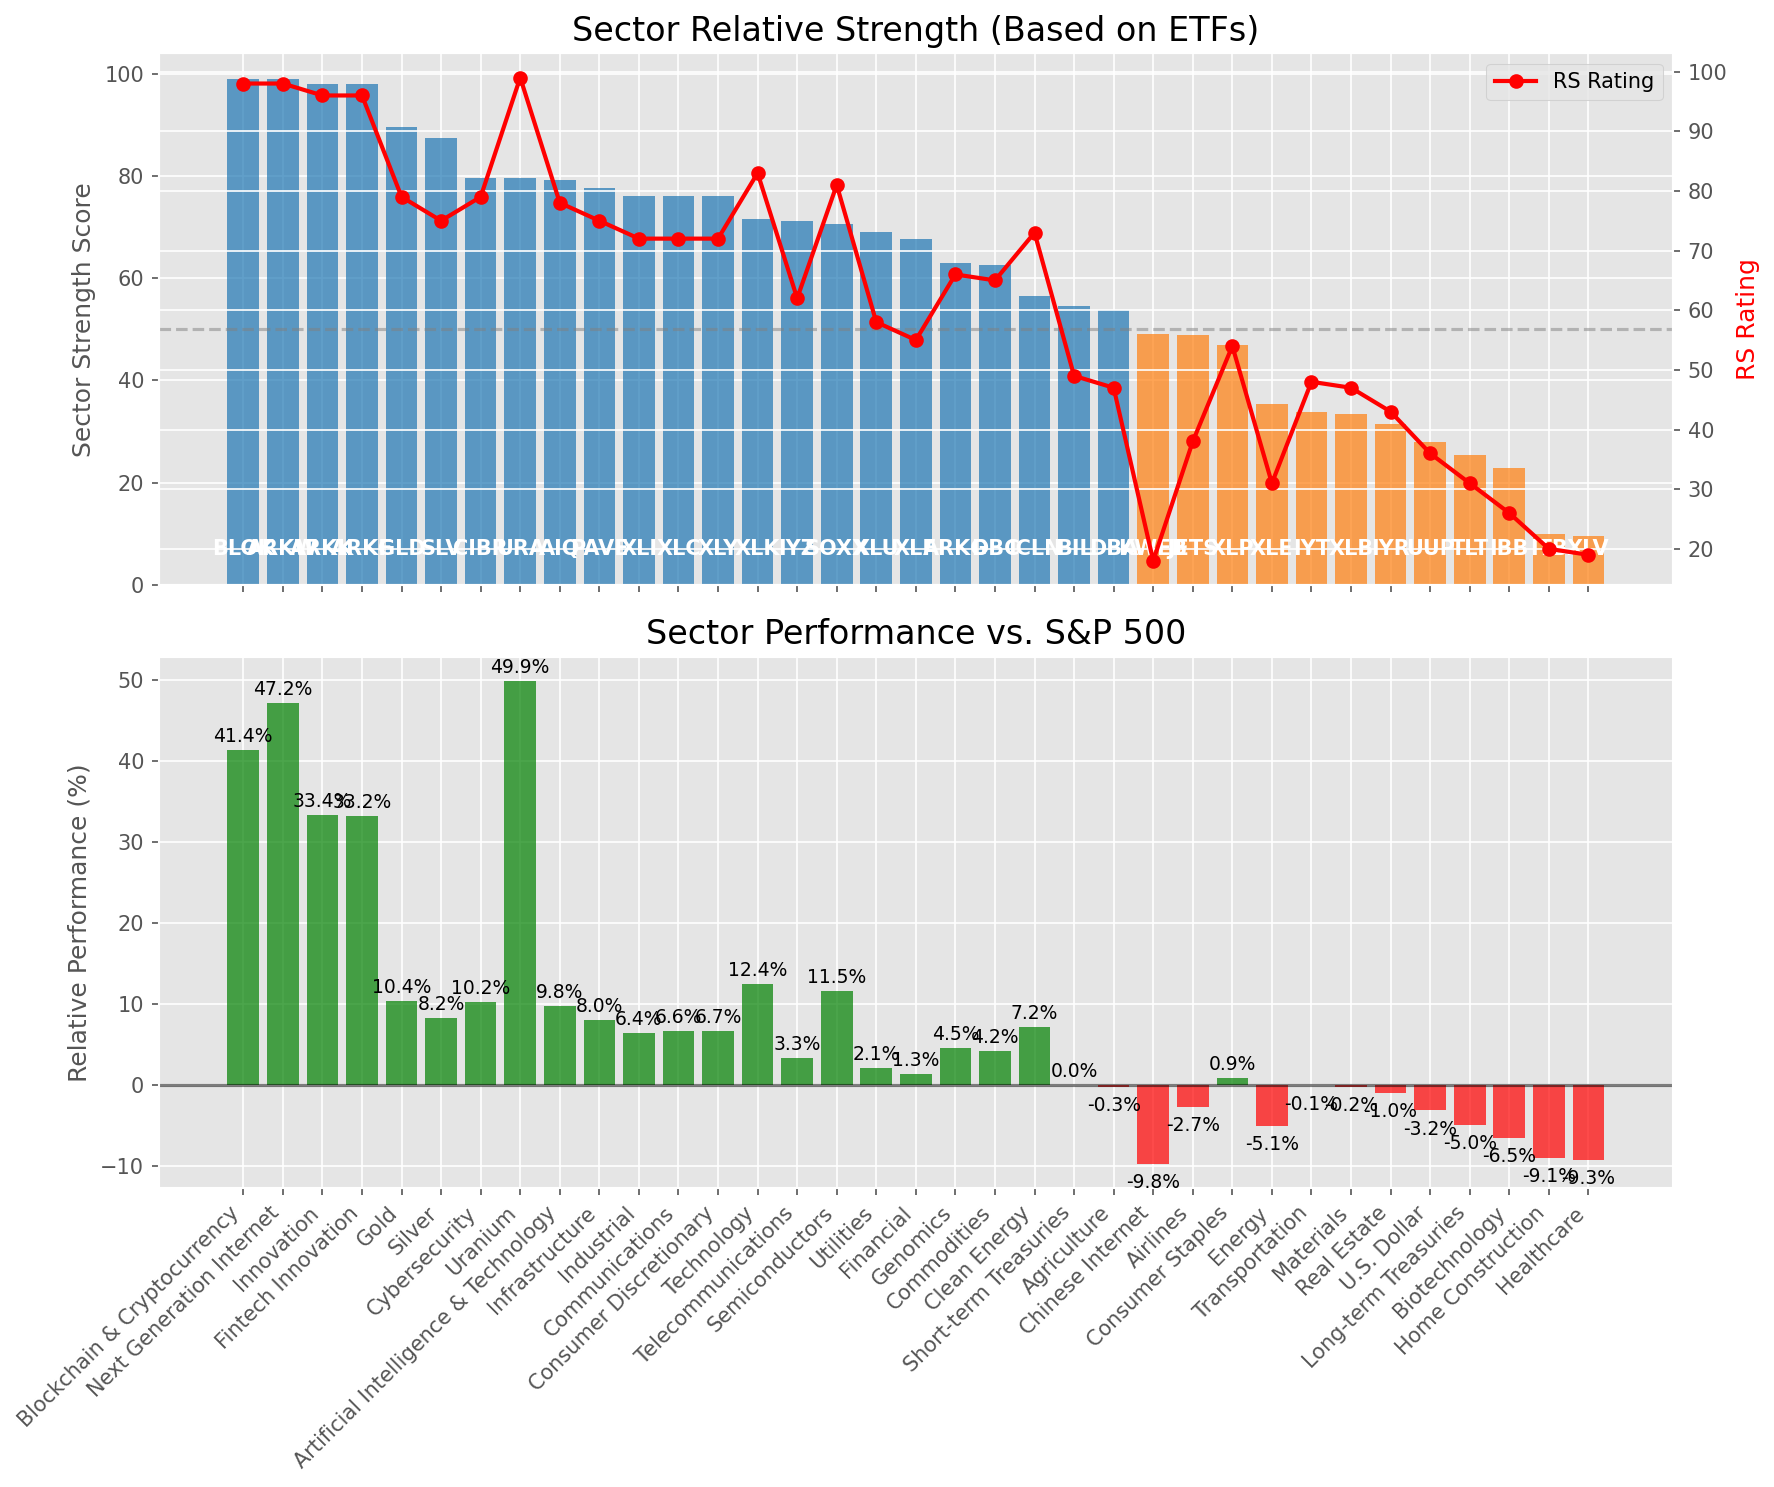
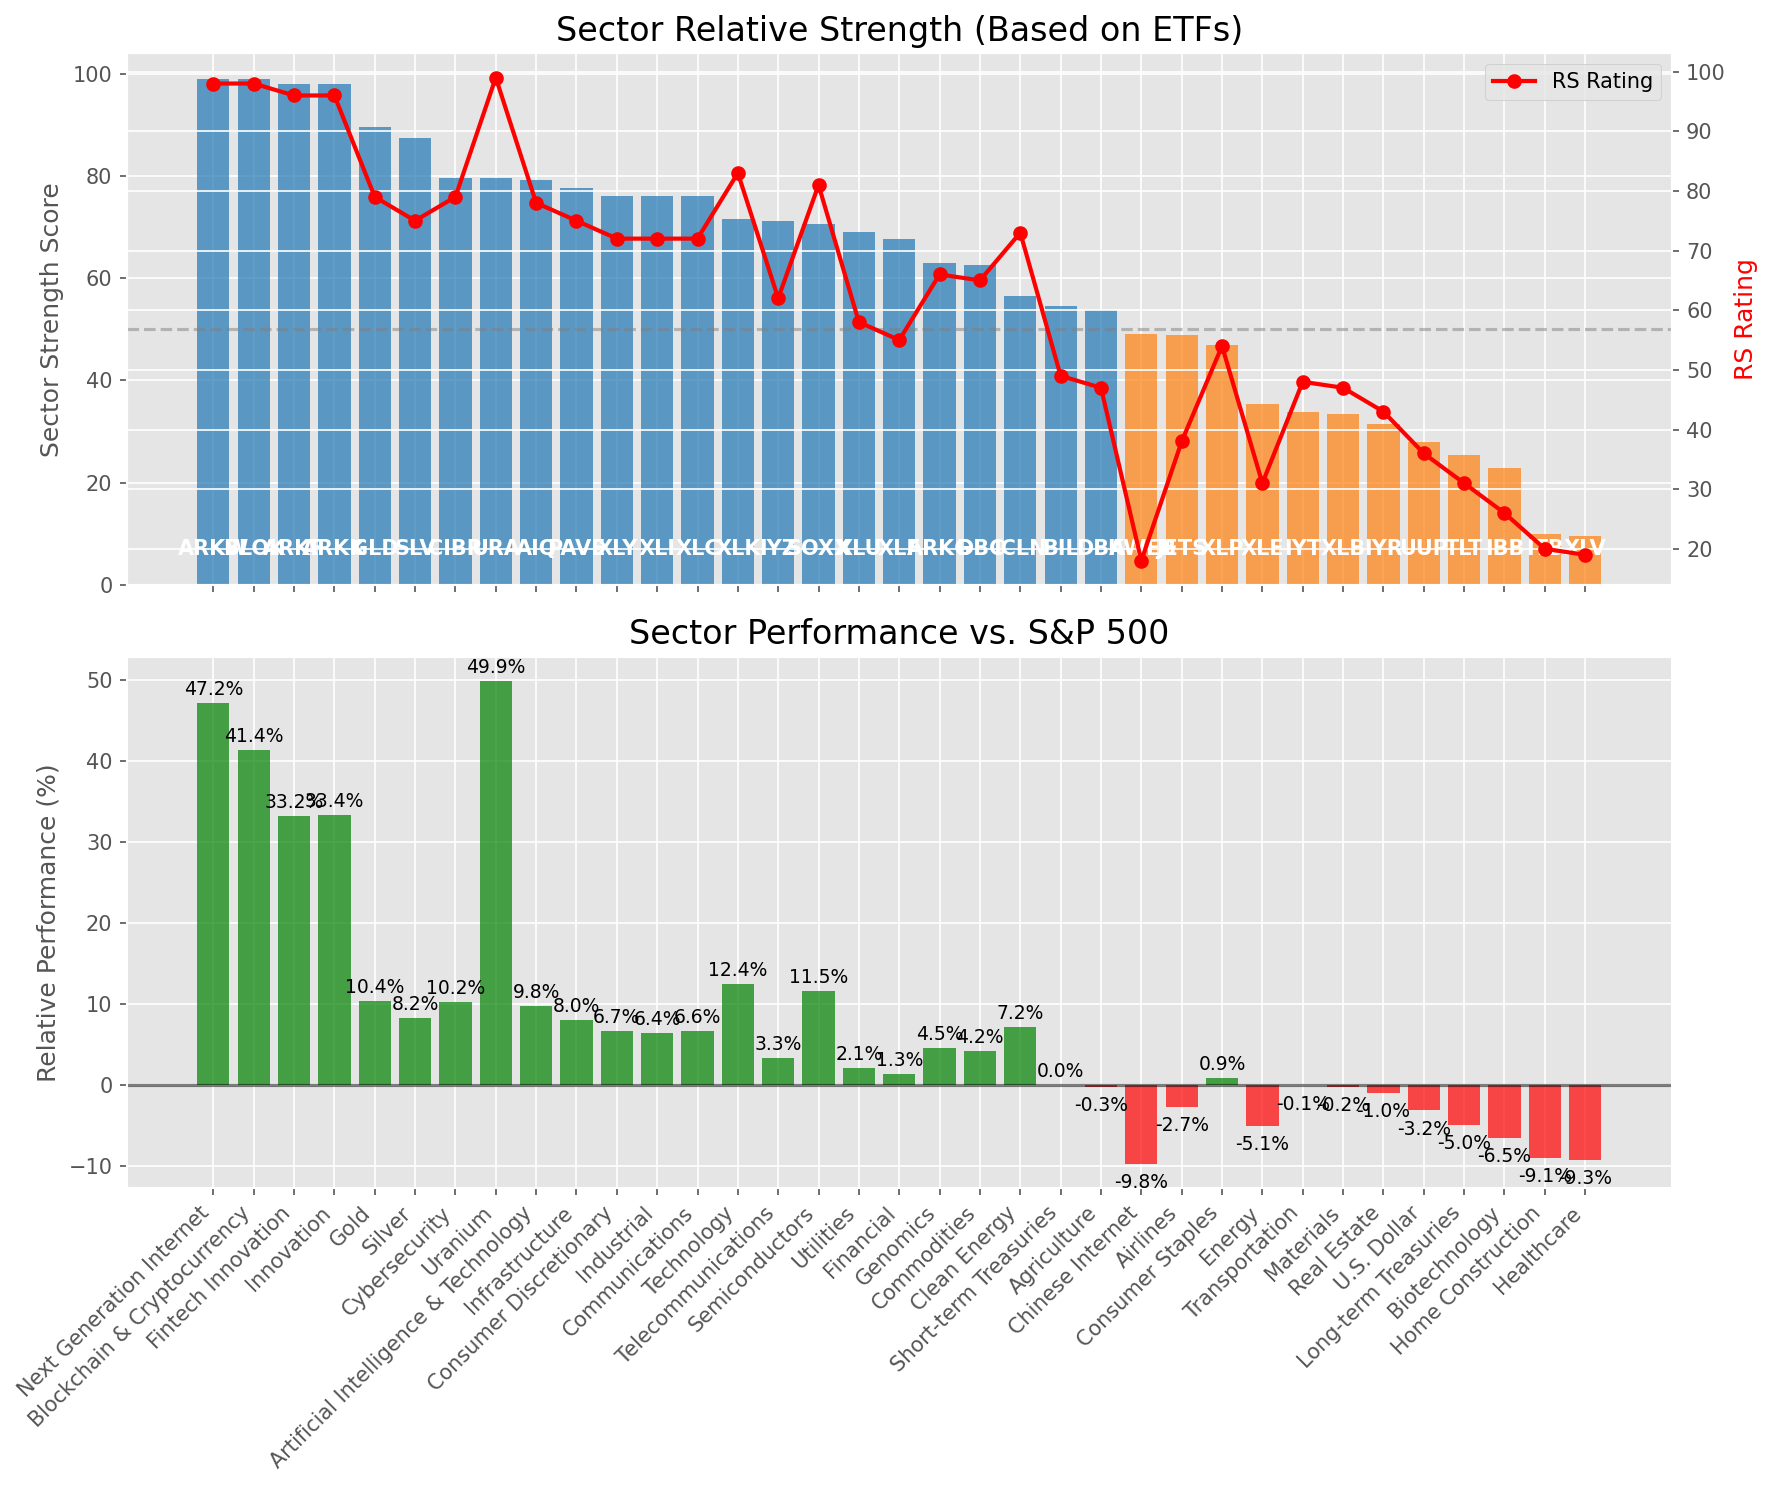
Add market report for 2025-06-18

diff --git a/oneil_relative_strength_report_2025-06-18.md b/oneil_relative_strength_report_2025-06-18.md
@@ -49,19 +49,19 @@ Based on William O'Neil's Relative Strength Methodology
 
 | ETF | Strength | RS Rating | Performance | Above Key MAs | Trend | Sector |
 |-----|----------|-----------|-------------|--------------|-------|--------|
-| [BLOK](https://www.tradingview.com/chart/?symbol=BLOK) | 99.0 | 98.0 | 41.40% | 10d ✓, 50d ✓, 200d ✓ | ↗ | Blockchain & Cryptocurrency |
 | [ARKW](https://www.tradingview.com/chart/?symbol=ARKW) | 99.0 | 98.0 | 47.16% | 10d ✓, 50d ✓, 200d ✓ | ↗ | Next Generation Internet |
-| [ARKK](https://www.tradingview.com/chart/?symbol=ARKK) | 98.0 | 96.0 | 33.41% | 10d ✓, 50d ✓, 200d ✓ | ↗ | Innovation |
+| [BLOK](https://www.tradingview.com/chart/?symbol=BLOK) | 99.0 | 98.0 | 41.40% | 10d ✓, 50d ✓, 200d ✓ | ↗ | Blockchain & Cryptocurrency |
 | [ARKF](https://www.tradingview.com/chart/?symbol=ARKF) | 98.0 | 96.0 | 33.24% | 10d ✓, 50d ✓, 200d ✓ | ↗ | Fintech Innovation |
+| [ARKK](https://www.tradingview.com/chart/?symbol=ARKK) | 98.0 | 96.0 | 33.41% | 10d ✓, 50d ✓, 200d ✓ | ↗ | Innovation |
 | [GLD](https://www.tradingview.com/chart/?symbol=GLD) | 89.5 | 79.0 | 10.37% | 10d ✓, 50d ✓, 200d ✓ | ↗ | Gold |
 | [SLV](https://www.tradingview.com/chart/?symbol=SLV) | 87.5 | 75.0 | 8.20% | 10d ✓, 50d ✓, 200d ✓ | ↗ | Silver |
 | [CIBR](https://www.tradingview.com/chart/?symbol=CIBR) | 79.6 | 79.0 | 10.22% | 10d ✗, 50d ✓, 200d ✓ | ↗ | Cybersecurity |
 | [URA](https://www.tradingview.com/chart/?symbol=URA) | 79.5 | 99.0 | 49.94% | 10d ✓, 50d ✓, 200d ✓ | ↘ | Uranium |
 | [AIQ](https://www.tradingview.com/chart/?symbol=AIQ) | 79.1 | 78.0 | 9.78% | 10d ✗, 50d ✓, 200d ✓ | ↗ | Artificial Intelligence & Technology |
 | [PAVE](https://www.tradingview.com/chart/?symbol=PAVE) | 77.6 | 75.0 | 8.01% | 10d ✗, 50d ✓, 200d ✓ | ↗ | Infrastructure |
+| [XLY](https://www.tradingview.com/chart/?symbol=XLY) | 76.1 | 72.0 | 6.70% | 10d ✗, 50d ✓, 200d ✓ | ↗ | Consumer Discretionary |
 | [XLI](https://www.tradingview.com/chart/?symbol=XLI) | 76.1 | 72.0 | 6.42% | 10d ✗, 50d ✓, 200d ✓ | ↗ | Industrial |
 | [XLC](https://www.tradingview.com/chart/?symbol=XLC) | 76.1 | 72.0 | 6.62% | 10d ✗, 50d ✓, 200d ✓ | ↗ | Communications |
-| [XLY](https://www.tradingview.com/chart/?symbol=XLY) | 76.1 | 72.0 | 6.70% | 10d ✗, 50d ✓, 200d ✓ | ↗ | Consumer Discretionary |
 | [XLK](https://www.tradingview.com/chart/?symbol=XLK) | 71.5 | 83.0 | 12.42% | 10d ✓, 50d ✓, 200d ✓ | ↘ | Technology |
 | [IYZ](https://www.tradingview.com/chart/?symbol=IYZ) | 71.1 | 62.0 | 3.31% | 10d ✗, 50d ✓, 200d ✓ | ↗ | Telecommunications |
 | [SOXX](https://www.tradingview.com/chart/?symbol=SOXX) | 70.5 | 81.0 | 11.55% | 10d ✓, 50d ✓, 200d ✓ | ↘ | Semiconductors |
@@ -98,9 +98,9 @@ This table shows the relative strength metrics for different market sectors base
 
 ### **Current Sector Leadership**
 
-The current market leadership is coming from the following sectors: **Blockchain & Cryptocurrency, Next Generation Internet, Innovation**.
+The current market leadership is coming from the following sectors: **Next Generation Internet, Blockchain & Cryptocurrency, Fintech Innovation**.
 
-The **Blockchain & Cryptocurrency** sector (represented by **BLOK**) is showing particularly strong relative strength with an RS rating of 98.0 and performance of 41.40% vs. the S&P 500. This sector is trading above its 10-day, 50-day, 200-day moving average(s). Investors should consider focusing on high RS stocks within these leading sectors for potential outperformance.
+The **Next Generation Internet** sector (represented by **ARKW**) is showing particularly strong relative strength with an RS rating of 98.0 and performance of 47.16% vs. the S&P 500. This sector is trading above its 10-day, 50-day, 200-day moving average(s). Investors should consider focusing on high RS stocks within these leading sectors for potential outperformance.
 
 ---
 
@@ -110,56 +110,56 @@ The following 75 stocks show exceptional relative strength:
 
 | RS Rating | Buy Score | Current Price | Chart | Name | Ticker |
 |-----------|-----------|---------------|-------|------|--------|
-| 100 | 100 | $143.03 | [Chart](https://www.tradingview.com/chart/?symbol=SEZL) | Sezzle Inc. Common Stock | SEZL |
 | 100 | 100 | $180.96 | [Chart](https://www.tradingview.com/chart/?symbol=LEU) | Centrus Energy Corp. | LEU |
+| 100 | 100 | $143.03 | [Chart](https://www.tradingview.com/chart/?symbol=SEZL) | Sezzle Inc. Common Stock | SEZL |
 | 100 | 100 | $78.35 | [Chart](https://www.tradingview.com/chart/?symbol=HOOD) | Robinhood Markets, Inc. Class A Common Stock | HOOD |
 | 100 | 100 | $102.65 | [Chart](https://www.tradingview.com/chart/?symbol=RBLX) | Roblox Corporation | RBLX |
 | 100 | 100 | $61.07 | [Chart](https://www.tradingview.com/chart/?symbol=HIMS) | Hims & Hers Health, Inc. | HIMS |
-| 99 | 100 | $181.40 | [Chart](https://www.tradingview.com/chart/?symbol=NET) | Cloudflare, Inc. Class A common stock, par value $0.001 per share | NET |
-| 99 | 100 | $30.74 | [Chart](https://www.tradingview.com/chart/?symbol=CRK) | Comstock Resources, Inc. | CRK |
-| 99 | 100 | $79.38 | [Chart](https://www.tradingview.com/chart/?symbol=SLNO) | Soleno Therapeutics, Inc. Common Stock | SLNO |
 | 99 | 100 | $139.96 | [Chart](https://www.tradingview.com/chart/?symbol=PLTR) | Palantir Technologies Inc. Class A Common Stock | PLTR |
+| 99 | 100 | $79.38 | [Chart](https://www.tradingview.com/chart/?symbol=SLNO) | Soleno Therapeutics, Inc. Common Stock | SLNO |
+| 99 | 100 | $30.74 | [Chart](https://www.tradingview.com/chart/?symbol=CRK) | Comstock Resources, Inc. | CRK |
 | 99 | 100 | $43.78 | [Chart](https://www.tradingview.com/chart/?symbol=FARO) | Faro Technologies Inc | FARO |
+| 99 | 100 | $181.40 | [Chart](https://www.tradingview.com/chart/?symbol=NET) | Cloudflare, Inc. Class A common stock, par value $0.001 per share | NET |
 | 98 | 100 | $136.25 | [Chart](https://www.tradingview.com/chart/?symbol=CLS) | Celestica, Inc. | CLS |
 | 98 | 100 | $204.66 | [Chart](https://www.tradingview.com/chart/?symbol=JBL) | Jabil Inc. | JBL |
 | 98 | 100 | $490.19 | [Chart](https://www.tradingview.com/chart/?symbol=GEV) | GE Vernova Inc. | GEV |
+| 97 | 100 | $144.57 | [Chart](https://www.tradingview.com/chart/?symbol=COOP) | Mr. Cooper Group Inc. Common Stock | COOP |
 | 97 | 100 | $37.22 | [Chart](https://www.tradingview.com/chart/?symbol=MP) | MP Materials Corp. | MP |
 | 97 | 100 | $52.50 | [Chart](https://www.tradingview.com/chart/?symbol=BBW) | Build-A-Bear Workshop, Inc. | BBW |
-| 97 | 100 | $144.57 | [Chart](https://www.tradingview.com/chart/?symbol=COOP) | Mr. Cooper Group Inc. Common Stock | COOP |
 | 97 | 100 | $290.38 | [Chart](https://www.tradingview.com/chart/?symbol=TLN) | Talen Energy Corporation Common Stock | TLN |
-| 96 | 100 | $21.41 | [Chart](https://www.tradingview.com/chart/?symbol=MAG) | MAG Silver Corp. | MAG |
 | 96 | 100 | $48.12 | [Chart](https://www.tradingview.com/chart/?symbol=AU) | AngloGold Ashanti plc | AU |
+| 96 | 100 | $21.41 | [Chart](https://www.tradingview.com/chart/?symbol=MAG) | MAG Silver Corp. | MAG |
 | 96 | 100 | $46.94 | [Chart](https://www.tradingview.com/chart/?symbol=ARKF) | ARK Fintech Innovation ETF | ARKF |
 | 95 | 100 | $250.97 | [Chart](https://www.tradingview.com/chart/?symbol=CRS) | Carpenter Technology Corp | CRS |
-| 95 | 100 | $32.30 | [Chart](https://www.tradingview.com/chart/?symbol=PRDO) | Perdoceo Education Corporation | PRDO |
 | 95 | 100 | $485.16 | [Chart](https://www.tradingview.com/chart/?symbol=CRWD) | CrowdStrike Holdings, Inc. Class A Common Stock | CRWD |
+| 95 | 100 | $32.30 | [Chart](https://www.tradingview.com/chart/?symbol=PRDO) | Perdoceo Education Corporation | PRDO |
 | 95 | 100 | $42.16 | [Chart](https://www.tradingview.com/chart/?symbol=KTOS) | Kratos Defense & Security Solutions, Inc. | KTOS |
 | 95 | 100 | $70.88 | [Chart](https://www.tradingview.com/chart/?symbol=ULS) | UL Solutions Inc. | ULS |
 | 94 | 100 | $178.31 | [Chart](https://www.tradingview.com/chart/?symbol=EAT) | Brinker International, Inc. | EAT |
-| 94 | 100 | $24.56 | [Chart](https://www.tradingview.com/chart/?symbol=TFPM) | Triple Flag Precious Metals Corp. | TFPM |
 | 94 | 100 | $506.31 | [Chart](https://www.tradingview.com/chart/?symbol=CASY) | Casey's General Stores Inc | CASY |
+| 94 | 100 | $24.56 | [Chart](https://www.tradingview.com/chart/?symbol=TFPM) | Triple Flag Precious Metals Corp. | TFPM |
 | 93 | 100 | $124.50 | [Chart](https://www.tradingview.com/chart/?symbol=ATGE) | Adtalem Global Education Inc. Common Shares | ATGE |
-| 93 | 100 | $165.40 | [Chart](https://www.tradingview.com/chart/?symbol=CAH) | Cardinal Health, Inc. | CAH |
 | 93 | 100 | $103.48 | [Chart](https://www.tradingview.com/chart/?symbol=JCI) | Johnson Controls International plc | JCI |
-| 92 | 100 | $22.38 | [Chart](https://www.tradingview.com/chart/?symbol=BTSG) | BrightSpring Health Services, Inc. Common Stock | BTSG |
+| 93 | 100 | $165.40 | [Chart](https://www.tradingview.com/chart/?symbol=CAH) | Cardinal Health, Inc. | CAH |
 | 92 | 100 | $54.90 | [Chart](https://www.tradingview.com/chart/?symbol=AKRO) | Akero Therapeutics, Inc. Common Stock | AKRO |
+| 92 | 100 | $22.38 | [Chart](https://www.tradingview.com/chart/?symbol=BTSG) | BrightSpring Health Services, Inc. Common Stock | BTSG |
 | 92 | 100 | $58.92 | [Chart](https://www.tradingview.com/chart/?symbol=CAKE) | Cheesecake Factory (The) | CAKE |
 | 91 | 100 | $148.26 | [Chart](https://www.tradingview.com/chart/?symbol=LYV) | Live Nation Entertainment Inc. | LYV |
 | 91 | 100 | $710.19 | [Chart](https://www.tradingview.com/chart/?symbol=SPOT) | Spotify Technology S.A. | SPOT |
-| 90 | 100 | $49.34 | [Chart](https://www.tradingview.com/chart/?symbol=BTI) | British American Tobacco p.l.c. American Depositary Shares, American Depositary Shares, each representing one Ordinary Share | BTI |
 | 90 | 100 | $91.07 | [Chart](https://www.tradingview.com/chart/?symbol=WPM) | Wheaton Precious Metals Corp. Common Stock | WPM |
+| 90 | 100 | $49.34 | [Chart](https://www.tradingview.com/chart/?symbol=BTI) | British American Tobacco p.l.c. American Depositary Shares, American Depositary Shares, each representing one Ordinary Share | BTI |
 | 90 | 100 | $58.38 | [Chart](https://www.tradingview.com/chart/?symbol=SHLD) | Global X Defense Tech ETF | SHLD |
-| 89 | 100 | $52.60 | [Chart](https://www.tradingview.com/chart/?symbol=IBKR) | Interactive Brokers Group, Inc. Class A Common Stock | IBKR |
-| 89 | 100 | $35.74 | [Chart](https://www.tradingview.com/chart/?symbol=AHR) | American Healthcare REIT, Inc. | AHR |
-| 89 | 100 | $182.61 | [Chart](https://www.tradingview.com/chart/?symbol=PM) | Philip Morris International Inc. | PM |
 | 89 | 100 | $40.00 | [Chart](https://www.tradingview.com/chart/?symbol=BBIO) | BridgeBio Pharma, Inc. Common Stock | BBIO |
-| 89 | 100 | $74.12 | [Chart](https://www.tradingview.com/chart/?symbol=CTVA) | Corteva, Inc. Common Stock | CTVA |
 | 89 | 100 | $222.75 | [Chart](https://www.tradingview.com/chart/?symbol=DRI) | Darden Restaurants, Inc. | DRI |
+| 89 | 100 | $182.61 | [Chart](https://www.tradingview.com/chart/?symbol=PM) | Philip Morris International Inc. | PM |
+| 89 | 100 | $35.74 | [Chart](https://www.tradingview.com/chart/?symbol=AHR) | American Healthcare REIT, Inc. | AHR |
+| 89 | 100 | $52.60 | [Chart](https://www.tradingview.com/chart/?symbol=IBKR) | Interactive Brokers Group, Inc. Class A Common Stock | IBKR |
+| 89 | 100 | $74.12 | [Chart](https://www.tradingview.com/chart/?symbol=CTVA) | Corteva, Inc. Common Stock | CTVA |
+| 88 | 100 | $175.95 | [Chart](https://www.tradingview.com/chart/?symbol=TKO) | TKO Group Holdings, Inc. | TKO |
 | 88 | 100 | $36.02 | [Chart](https://www.tradingview.com/chart/?symbol=UGL) | ProShares Ultra Gold | UGL |
 | 88 | 100 | $79.30 | [Chart](https://www.tradingview.com/chart/?symbol=LLYVK) | Liberty Media Corporation Series C Liberty Live Common Stock | LLYVK |
-| 88 | 100 | $175.95 | [Chart](https://www.tradingview.com/chart/?symbol=TKO) | TKO Group Holdings, Inc. | TKO |
-| 87 | 100 | $220.58 | [Chart](https://www.tradingview.com/chart/?symbol=DASH) | DoorDash, Inc. Class A Common Stock | DASH |
 | 87 | 100 | $122.65 | [Chart](https://www.tradingview.com/chart/?symbol=AEM) | Agnico Eagle Mines Ltd. | AEM |
+| 87 | 100 | $220.58 | [Chart](https://www.tradingview.com/chart/?symbol=DASH) | DoorDash, Inc. Class A Common Stock | DASH |
 | 87 | 100 | $281.16 | [Chart](https://www.tradingview.com/chart/?symbol=VRSN) | VeriSign Inc | VRSN |
 | 86 | 99 | $42.68 | [Chart](https://www.tradingview.com/chart/?symbol=VIRT) | Virtu Financial, Inc. Class A | VIRT |
 | 86 | 99 | $22.49 | [Chart](https://www.tradingview.com/chart/?symbol=LAUR) | Laureate Education, Inc. Common Stock | LAUR |
@@ -195,19 +195,19 @@ The following 69 stocks show deteriorating relative strength:
 
 | RS Rating | Sell Score | Current Price | Chart | Name | Ticker |
 |-----------|------------|---------------|-------|------|--------|
+| 1 | 100 | $25.98 | [Chart](https://www.tradingview.com/chart/?symbol=HELE) | Helen Of Troy Ltd | HELE |
 | 1 | 100 | $16.41 | [Chart](https://www.tradingview.com/chart/?symbol=NVDS) | Investment Managers Series Trust II Tradr 1.5X Short NVDA Daily ETF | NVDS |
 | 1 | 100 | $31.05 | [Chart](https://www.tradingview.com/chart/?symbol=TECS) | Direxion Daily Technology Bear 3x Shares | TECS |
-| 1 | 100 | $25.98 | [Chart](https://www.tradingview.com/chart/?symbol=HELE) | Helen Of Troy Ltd | HELE |
 | 2 | 100 | $11.62 | [Chart](https://www.tradingview.com/chart/?symbol=NRIX) | Nurix Therapeutics, Inc. Common stock | NRIX |
 | 2 | 100 | $23.91 | [Chart](https://www.tradingview.com/chart/?symbol=CRTO) | Criteo S.A. | CRTO |
 | 3 | 100 | $21.30 | [Chart](https://www.tradingview.com/chart/?symbol=AMRK) | A-Mark Precious Metals, Inc. | AMRK |
 | 4 | 100 | $44.55 | [Chart](https://www.tradingview.com/chart/?symbol=LINE) | Lineage, Inc. Common Stock | LINE |
+| 6 | 100 | $37.58 | [Chart](https://www.tradingview.com/chart/?symbol=APOG) | Apogee Enterprises Inc | APOG |
 | 6 | 100 | $16.58 | [Chart](https://www.tradingview.com/chart/?symbol=AMTB) | Amerant Bancorp Inc. | AMTB |
 | 6 | 100 | $17.06 | [Chart](https://www.tradingview.com/chart/?symbol=ZTO) | ZTO Express (Cayman) Inc. American Depositary Shares, each representing one Class A ordinary share | ZTO |
-| 6 | 100 | $37.58 | [Chart](https://www.tradingview.com/chart/?symbol=APOG) | Apogee Enterprises Inc | APOG |
-| 7 | 100 | $11.07 | [Chart](https://www.tradingview.com/chart/?symbol=M) | Macy's Inc. | M |
 | 7 | 100 | $20.36 | [Chart](https://www.tradingview.com/chart/?symbol=BITI) | ProShares Short Bitcoin ETF | BITI |
 | 7 | 100 | $30.34 | [Chart](https://www.tradingview.com/chart/?symbol=FUN) | Six Flags Entertainment Corporation | FUN |
+| 7 | 100 | $11.07 | [Chart](https://www.tradingview.com/chart/?symbol=M) | Macy's Inc. | M |
 | 9 | 100 | $20.37 | [Chart](https://www.tradingview.com/chart/?symbol=KIDS) | OrthoPediatrics Corp. Common Stock | KIDS |
 | 11 | 100 | $50.27 | [Chart](https://www.tradingview.com/chart/?symbol=AMWD) | American Woodmark Corp | AMWD |
 | 13 | 100 | $10.05 | [Chart](https://www.tradingview.com/chart/?symbol=LBTYK) | Liberty Global Ltd. Class C Common Shares | LBTYK |
@@ -221,8 +221,8 @@ The following 69 stocks show deteriorating relative strength:
 | 10 | 97 | $25.65 | [Chart](https://www.tradingview.com/chart/?symbol=ATHM) | Autohome Inc. American Depositary Shares, each representing four Class A Ordinary Shares | ATHM |
 | 15 | 97 | $19.37 | [Chart](https://www.tradingview.com/chart/?symbol=FOR) | Forestar Group Inc. | FOR |
 | 13 | 96 | $42.57 | [Chart](https://www.tradingview.com/chart/?symbol=PRKS) | United Parks & Resorts Inc. | PRKS |
-| 7 | 95 | $28.33 | [Chart](https://www.tradingview.com/chart/?symbol=QDEL) | QuidelOrtho Corporation Common Stock | QDEL |
 | 7 | 95 | $47.62 | [Chart](https://www.tradingview.com/chart/?symbol=SNY) | Sanofi American Depositary Shares (Each representing one-half of one ordinary share) | SNY |
+| 7 | 95 | $28.33 | [Chart](https://www.tradingview.com/chart/?symbol=QDEL) | QuidelOrtho Corporation Common Stock | QDEL |
 | 14 | 95 | $30.50 | [Chart](https://www.tradingview.com/chart/?symbol=CRNX) | Crinetics Pharmaceuticals, Inc. | CRNX |
 | 18 | 95 | $43.46 | [Chart](https://www.tradingview.com/chart/?symbol=SON) | Sonoco Products Company | SON |
 | 13 | 94 | $25.97 | [Chart](https://www.tradingview.com/chart/?symbol=WY) | Weyerhaeuser Company | WY |
@@ -242,9 +242,9 @@ The following 69 stocks show deteriorating relative strength:
 | 22 | 87 | $17.66 | [Chart](https://www.tradingview.com/chart/?symbol=JPMpM) | JPMorgan Chase & Co. Depositary Shares, each representing a 1/400th interest in a share of 4.20% Non-Cumulative Preferred Stock, Series MM | JPMpM |
 | 15 | 86 | $36.86 | [Chart](https://www.tradingview.com/chart/?symbol=LKQ) | LKQ Corporation | LKQ |
 | 17 | 86 | $10.29 | [Chart](https://www.tradingview.com/chart/?symbol=LOCO) | El Pollo Loco Holdings, Inc. | LOCO |
-| 18 | 86 | $75.97 | [Chart](https://www.tradingview.com/chart/?symbol=PFG) | Principal Financial Group, Inc. | PFG |
 | 20 | 86 | $12.96 | [Chart](https://www.tradingview.com/chart/?symbol=ARDT) | Ardent Health, Inc. | ARDT |
 | 23 | 86 | $16.85 | [Chart](https://www.tradingview.com/chart/?symbol=STAA) | Staar Surgical Co | STAA |
+| 18 | 85 | $75.97 | [Chart](https://www.tradingview.com/chart/?symbol=PFG) | Principal Financial Group, Inc. | PFG |
 | 21 | 84 | $14.99 | [Chart](https://www.tradingview.com/chart/?symbol=VRE) | Veris Residential, Inc. | VRE |
 | 22 | 84 | $67.76 | [Chart](https://www.tradingview.com/chart/?symbol=BBY) | Best Buy Company, Inc. | BBY |
 | 21 | 83 | $196.58 | [Chart](https://www.tradingview.com/chart/?symbol=AAPL) | Apple Inc. | AAPL |
